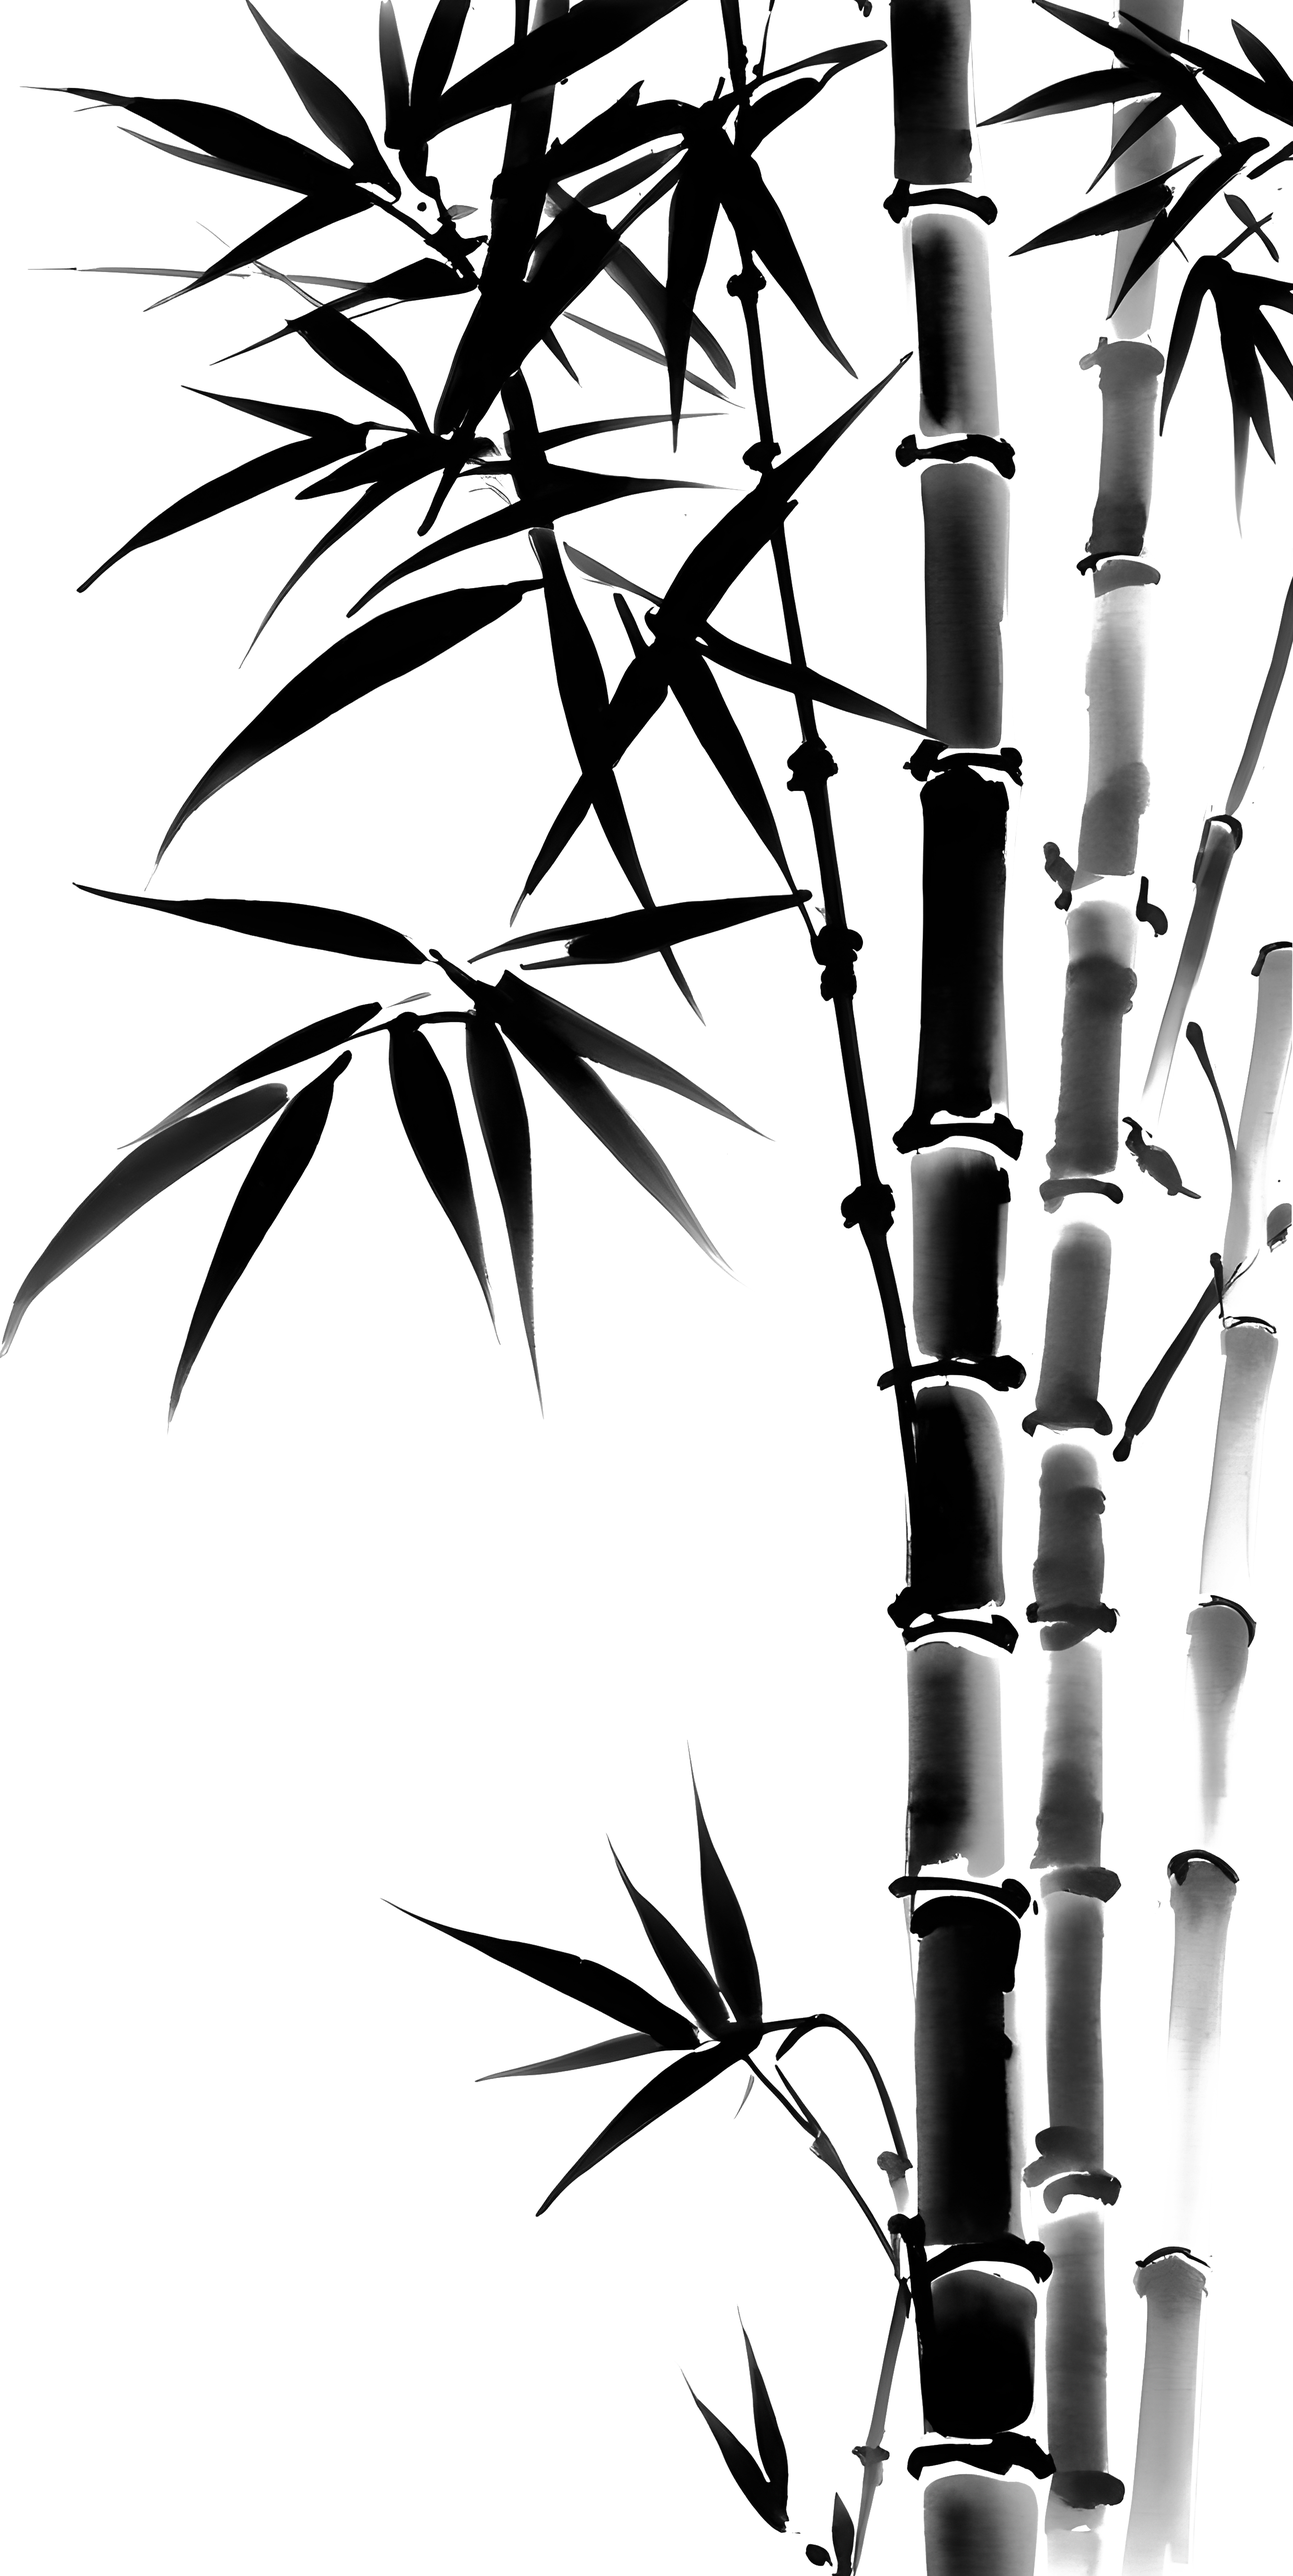
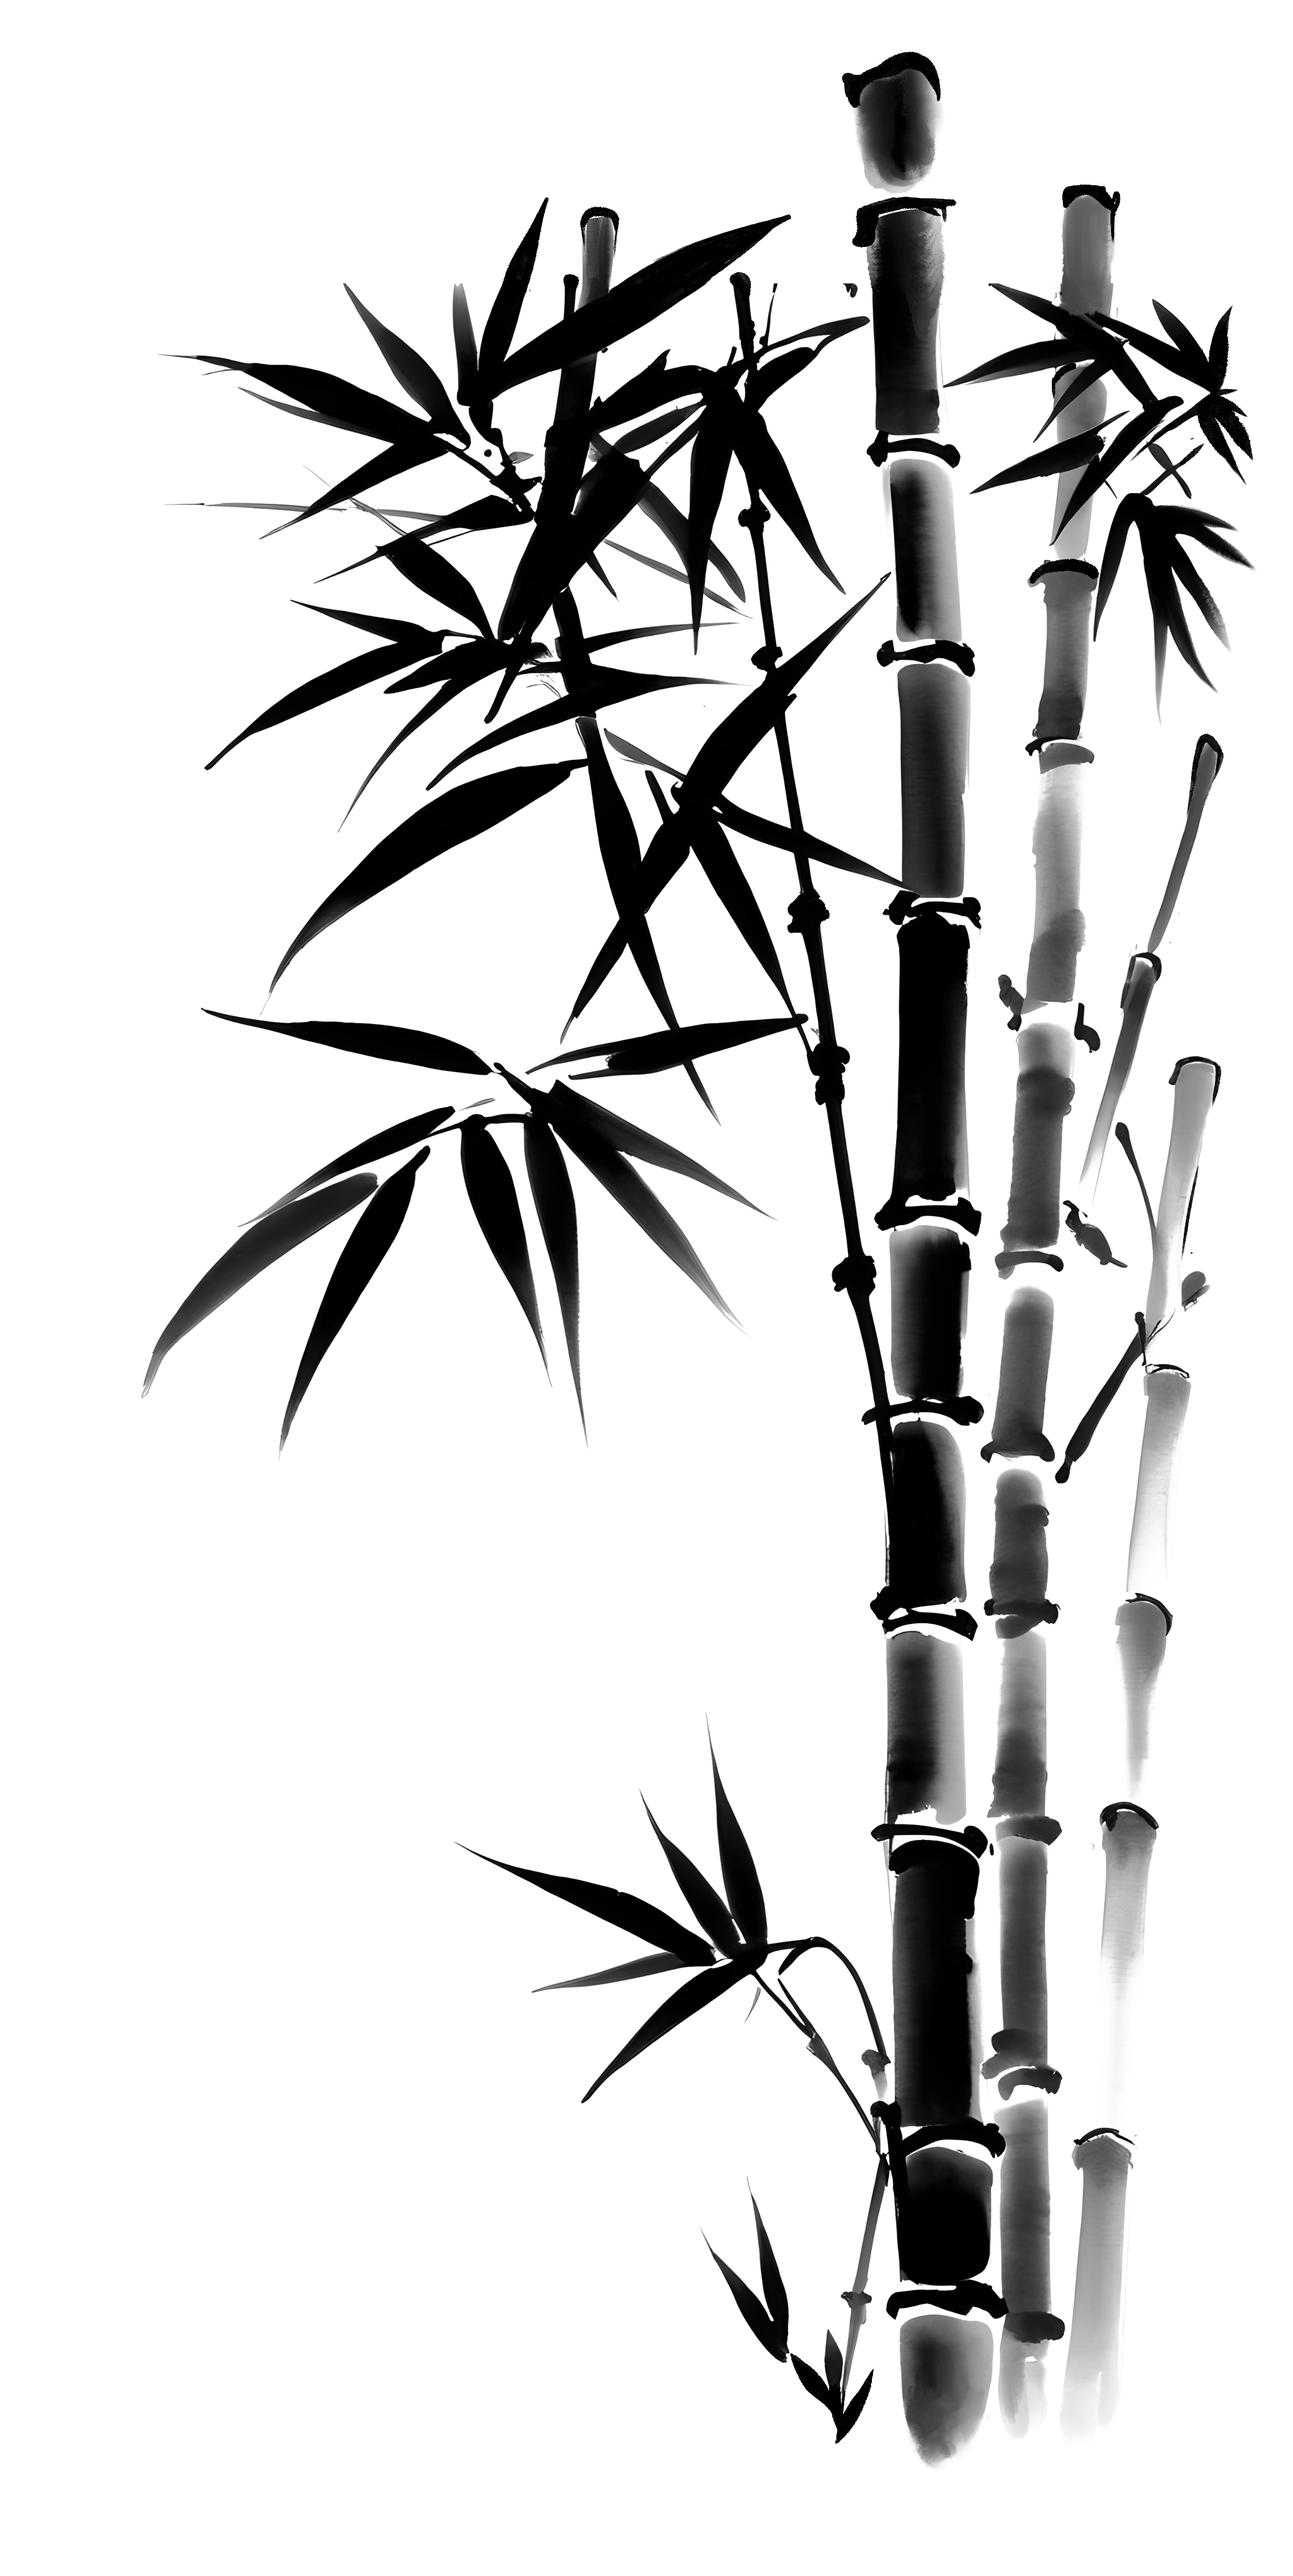
Changed bamboo picture and size

diff --git a/frontend/src/views/HomePage.vue b/frontend/src/views/HomePage.vue
@@ -130,11 +130,12 @@ export default {
   background-image: url('@/assets/bamboo_clear.png');
   background-position: top right;
   background-repeat: no-repeat;
-  background-size: 70%;
+  background-size: 100%;
   background-attachment: scroll;
   opacity: 0.6;
   z-index: -1;
 }
+
 .home-page {
   position: relative;
   min-height: 100vh;

diff --git a/frontend/src/views/AboutPage.vue b/frontend/src/views/AboutPage.vue
@@ -159,7 +159,7 @@ export default {
   background-image: url('@/assets/bamboo_clear.png');
   background-position: top right;
   background-repeat: no-repeat;
-  background-size: 70%;
+  background-size: 100%;
   background-attachment: scroll;
   opacity: 0.6;
   z-index: -1;

diff --git a/frontend/src/views/ProjectsPage.vue b/frontend/src/views/ProjectsPage.vue
@@ -57,7 +57,7 @@ export default {
   background-image: url('@/assets/bamboo_clear.png');
   background-position: top right;
   background-repeat: no-repeat;
-  background-size: 70%;
+  background-size: 100%;
   background-attachment: scroll;
   opacity: 0.6;
   z-index: -1;
